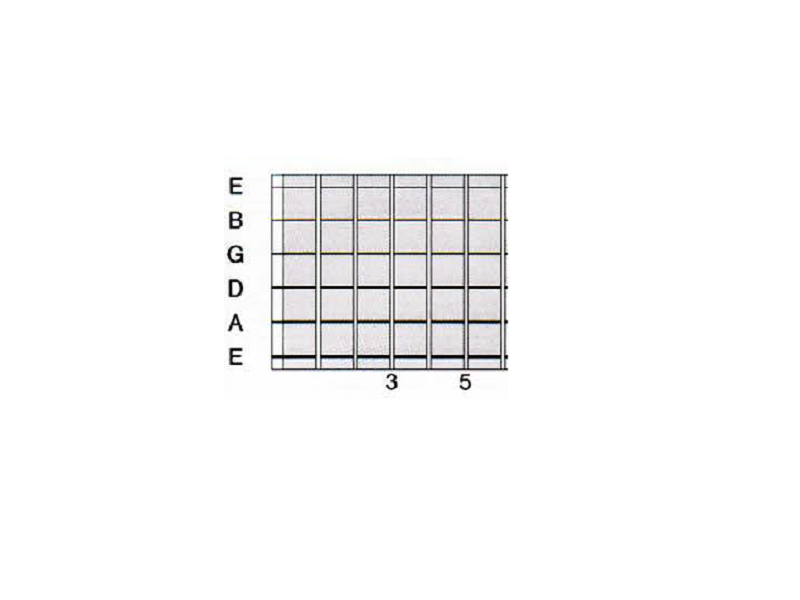
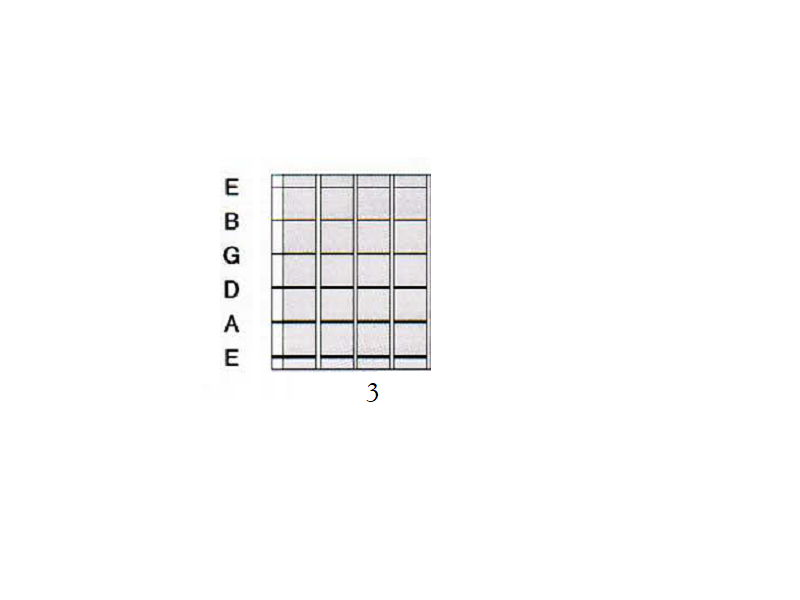
Add files via upload

Changed region(s): [[0.5312, 0.27, 0.6562, 0.66], [0.2812, 0.3, 0.3125, 0.63], [0.4688, 0.6, 0.5, 0.66]]

diff --git a/World.cpp b/World.cpp
@@ -29,7 +29,7 @@ World::World() :
 void World::addGameField()
 {
     mSceneGraph.clearTree();
-    sf::Vector2f rootPosition(282, 175);
+    sf::Vector2f rootPosition(250, 175);
     if(mBassStateActive)
         rootPosition.y = 243;
     sf::Vector2f currentPosition = rootPosition;
@@ -40,7 +40,10 @@ void World::addGameField()
         {
             std::unique_ptr<CircleNode> square(new CircleNode(mFont, currentPosition, Category::None, mNotePattern[i][j]));
             mSceneGraph.attachChild(std::move(std::unique_ptr<CircleNode>(std::move(square))));
-            currentPosition.x += 37;
+            if(j == 0)
+                currentPosition.x = 282;
+            else
+                currentPosition.x += 37;
         }
         currentPosition.y += 34;
         currentPosition.x = rootPosition.x;
@@ -49,7 +52,7 @@ void World::addGameField()
     node->setCategory(Category::Communicator);
     mCommunicator = node.get();
     mSceneGraph.attachChild(std::move(std::unique_ptr<CommunicatorNode>(std::move(node))));
-    copyCurrentPatternToNodes();
+    copyCurrentPatternToNodes(true);
 }
 
 CommandQueue& World::getCommandQueue()
@@ -75,51 +78,51 @@ void World::update()
 void World::initializePatterns()
 {
     using namespace Category;
-    unsigned N = None, D = Diatonic, P = Pentatonic, C = MajorRoot, A = MinorRoot;
+    unsigned N = None, D = Diatonic, P = Pentatonic, C = MajorRoot, A = MinorRoot, E = End;
     Vec2D pattern1
     {
-        {N,A,N,D,C,N},
-        {N,P,D,N,P,N},
-        {N,C,N,P,N,N},
-        {N,P,N,A,N,D},
-        {N,P,N,P,D,N},
-        {N,A,N,D,C,N}
+        {A,N,D,C,E,E},
+        {P,D,N,P,E,E},
+        {C,N,P,N,E,E},
+        {P,N,A,N,E,E},
+        {P,N,P,D,E,E},
+        {A,N,D,C,E,E}
     };
     Vec2D pattern2
     {
-        {N,D,C,N,P,N},
-        {N,N,P,N,A,N},
-        {N,P,N,P,D,N},
-        {N,A,N,D,C,N},
-        {N,P,D,N,P,N},
-        {N,D,C,N,P,N}
+        {D,C,N,P,E,E},
+        {N,P,N,A,E,E},
+        {P,N,P,D,E,E},
+        {A,N,D,C,E,E},
+        {P,D,N,P,E,E},
+        {D,C,N,P,E,E}
     };
     Vec2D pattern3
     {
-        {N,P,N,P,D,N},
-        {N,A,N,D,C,N},
-        {P,D,N,P,N,N},
-        {N,C,N,P,N,D},
-        {N,P,N,A,N,D},
-        {N,P,N,P,D,N}
+        {N,P,N,P,D,E},
+        {N,A,N,D,C,E},
+        {P,D,N,P,N,E},
+        {D,C,N,P,N,E},
+        {N,P,N,A,N,E},
+        {N,P,N,P,D,E}
     };
     Vec2D pattern4
     {
-        {N,P,D,N,P,N},
-        {N,D,C,N,P,N},
-        {N,P,N,A,N,N},
-        {N,P,N,P,D,N},
-        {N,A,N,D,C,N},
-        {N,P,D,N,P,N}
+        {P,D,N,P,E,E},
+        {D,C,N,P,E,E},
+        {P,N,A,N,E,E},
+        {P,N,P,D,E,E},
+        {A,N,D,C,E,E},
+        {P,D,N,P,E,E}
     };
     Vec2D pattern5
     {
-        {D,N,P,N,A,N},
-        {N,N,P,N,P,N},
-        {N,A,N,D,C,N},
-        {N,P,D,N,P,N},
-        {N,D,C,N,P,N},
-        {D,N,P,N,A,N}
+        {N,P,N,A,E,E},
+        {N,P,N,P,E,E},
+        {A,N,D,C,E,E},
+        {P,D,N,P,E,E},
+        {D,C,N,P,E,E},
+        {N,P,N,A,E,E}
     };
     mPatterns.push_back(Pattern(pattern1, "Pentatonic: Pattern 1", mIterationLimits));
     mPatterns.push_back(Pattern(pattern2, "Pentatonic: Pattern 2", mIterationLimits));
@@ -195,12 +198,12 @@ void World::updateQuestionState()
     mTotalErrorCount = errorCount;
 
     if(mCurrentQuestionState == Category::Pentatonic && pentatonicGuessed == mPatterns[mCurrentPatternIndex].numberOfPentatonicNotes)
-        mCurrentQuestionState = Category::Diatonic;
-    if(mCurrentQuestionState == Category::Diatonic && diatonicGuessed == mPatterns[mCurrentPatternIndex].numberOfDiatonicNotes)
         mCurrentQuestionState = Category::MajorRoot;
     if(mCurrentQuestionState == Category::MajorRoot && majorRootGuessed == mPatterns[mCurrentPatternIndex].numberOfMajorRoots)
         mCurrentQuestionState = Category::MinorRoot;
     if(mCurrentQuestionState == Category::MinorRoot && minorRootGuessed == mPatterns[mCurrentPatternIndex].numberOfMinorRoots)
+        mCurrentQuestionState = Category::Diatonic;
+    if(mCurrentQuestionState == Category::Diatonic && diatonicGuessed == mPatterns[mCurrentPatternIndex].numberOfDiatonicNotes)
         mCurrentQuestionState = Category::None;
 
     for(const auto& i : mSceneGraph.getTree())
@@ -211,7 +214,7 @@ void World::updateQuestionState()
     }
 }
 
-void World::copyCurrentPatternToNodes()
+void World::copyCurrentPatternToNodes(bool reset)
 {
     mCurrentQuestionState = Category::Pentatonic;
     int i = mIterationLimits.yMin, j = mIterationLimits.xMin;
@@ -220,8 +223,15 @@ void World::copyCurrentPatternToNodes()
         CircleNode* circleNode = dynamic_cast<CircleNode*>(node.get());
         if(circleNode != nullptr)
         {
-            circleNode->resetStates();
-            node.get()->setCategory(mPatterns[mCurrentPatternIndex].mCategoryInformation[i][j]);
+            circleNode->setCategory(mPatterns[mCurrentPatternIndex].mCategoryInformation[i][j]);
+            if(circleNode->isShowingSolution() && !reset)
+            {
+                circleNode->resetStates();
+                circleNode->enableSolutionState();
+            }
+            else
+                circleNode->resetStates();
+
             if(++j == mIterationLimits.xMax)
             {
                 j = 0;
@@ -240,7 +250,7 @@ void World::showNextPattern()
 {
     if(++mCurrentPatternIndex == mPatterns.size())
         mCurrentPatternIndex = 0;
-    copyCurrentPatternToNodes();
+    copyCurrentPatternToNodes(false);
 }
 
 void World::showPreviousPattern()
@@ -249,7 +259,7 @@ void World::showPreviousPattern()
         mCurrentPatternIndex = mPatterns.size() - 1;
     else
         --mCurrentPatternIndex;
-    copyCurrentPatternToNodes();
+    copyCurrentPatternToNodes(false);
 }
 
 void World::checkCommunicator()
@@ -267,7 +277,7 @@ void World::checkCommunicator()
     if(mCommunicator->mResetCurrentPatternState)
     {
         mCommunicator->mResetCurrentPatternState = false;
-        copyCurrentPatternToNodes();
+        copyCurrentPatternToNodes(true);
     }
     if(mCommunicator->mToggleBassState)
     {
@@ -293,7 +303,7 @@ void World::toggleBassState()
         i.countNotes(mIterationLimits);
 
     addGameField();
-    copyCurrentPatternToNodes();
+    copyCurrentPatternToNodes(true);
     mBackgroundSprite.setTexture(mBackgroundTexture);
 }
 

diff --git a/Player.cpp b/Player.cpp
@@ -28,7 +28,7 @@ void Player::handleRealtimeInput(const sf::RenderWindow& window, std::vector<sf:
         }
     };
     commands.push(command);
-    for(int i = 0; i < buttons.size(); ++i)
+    for(unsigned i = 0; i < buttons.size(); ++i)
     {
         if(buttons[i].getGlobalBounds().contains(mousePosition))
             buttons[i].setOutlineColor(sf::Color::Blue);
@@ -45,7 +45,7 @@ void Player::handleEvent(const sf::Event& event, std::vector<sf::RectangleShape>
         {
             sf::Vector2f position = sf::Vector2f(event.mouseButton.x, event.mouseButton.y);
             selectCircle(position, commands);
-            for(int i = 0; i < buttons.size(); ++i)
+            for(unsigned i = 0; i < buttons.size(); ++i)
             {
                 if(buttons[i].getGlobalBounds().contains(position))
                 {
@@ -155,7 +155,7 @@ void Player::loadSounds()
 void Player::showSolution(CommandQueue& commands)
 {
     Command command;
-    command.category = Category::All;
+    command.category = Category::All | Category::End;
     command.action = [=] (SceneNode& s)
     {
         CircleNode* node = dynamic_cast<CircleNode*>(&s);

diff --git a/Game.cpp b/Game.cpp
@@ -5,8 +5,8 @@ Game::Game() :
 {
     addButton(50, 30, sf::Vector2f(220, 35));
     addButton(50, 30, sf::Vector2f(490, 35));
-    addButton(200, 30, sf::Vector2f(560, 230));
     addButton(200, 30, sf::Vector2f(560, 270));
+    addButton(200, 30, sf::Vector2f(560, 230));
     addButton(200, 30, sf::Vector2f(560, 310));
     mWindow.setFramerateLimit(30);
     #ifdef SOUND_ON
@@ -88,8 +88,8 @@ void Game::updateHeadline()
 {
     addText(240, 35, "<-", sf::Color::Black, 20);
     addText(510, 35, "->", sf::Color::Black, 20);
-    addText(565, 230, "Show solution [S]", sf::Color::Black, 20);
-    addText(565, 270, "Reset [R]", sf::Color::Black, 20);
+    addText(565, 270, "Show solution [S]", sf::Color::Black, 20);
+    addText(565, 230, "Reset [R]", sf::Color::Black, 20);
     addText(565, 310, "Toggle bass mode [B]", sf::Color::Black, 20);
     addText(290, 35, mWorld.getActivePatternName(), sf::Color::Black, 20);
     if(mWorld.getActiveQuestionName() == "None")

diff --git a/World.h b/World.h
@@ -65,9 +65,9 @@ public:
             numberOfMajorRoots = 0;
             numberOfMinorRoots = 0;
 
-            for(int i = limits.yMin; i < limits.yMax; ++i)
+            for(unsigned i = limits.yMin; i < limits.yMax; ++i)
             {
-                for(int j = limits.xMin; j < limits.xMax; ++j)
+                for(unsigned j = limits.xMin; j < limits.xMax; ++j)
                 {
                     unsigned cat = mCategoryInformation[i][j];
                     if(cat & Pentatonic || cat & MajorRoot || cat & MinorRoot)
@@ -134,7 +134,7 @@ private:
     void                            showNextPattern();
     void                            showPreviousPattern();
     void                            checkCommunicator();
-    void                            copyCurrentPatternToNodes();
+    void                            copyCurrentPatternToNodes(bool reset);
 
 };
 

diff --git a/CircleNode.cpp b/CircleNode.cpp
@@ -58,7 +58,8 @@ bool CircleNode::correctGuess() const
         return false;
     if(mRootGuessed && (mCurrentQuestionState & (Category::MajorRoot | Category::MinorRoot)))
        return false;
-    if(mCurrentQuestionState == getCategory() || (getCategory() & (Category::MajorRoot | Category::MinorRoot)) && mCurrentQuestionState == Category::Pentatonic)
+    if(mCurrentQuestionState == getCategory() ||
+       (getCategory() & (Category::MajorRoot | Category::MinorRoot)) && mCurrentQuestionState == Category::Pentatonic)
         return true;
     return false;
 }

diff --git a/Category.h b/Category.h
@@ -11,7 +11,8 @@ namespace Category
         MajorRoot           = 1 << 3,
         MinorRoot           = 1 << 4,
         All                 = None | Pentatonic | Diatonic | MajorRoot | MinorRoot,
-        Communicator        = 1 << 5
+        Communicator        = 1 << 5,
+        End                 = 1 << 6
     };
 };
 

diff --git a/Player.h b/Player.h
@@ -24,7 +24,6 @@ private:
         std::string     mName;
         Note& operator++()
         {
-            int number = static_cast<int>(mName[1]) - 48;
             if(++mName[1] == '6')
             {
                 mName[1] = '0';
